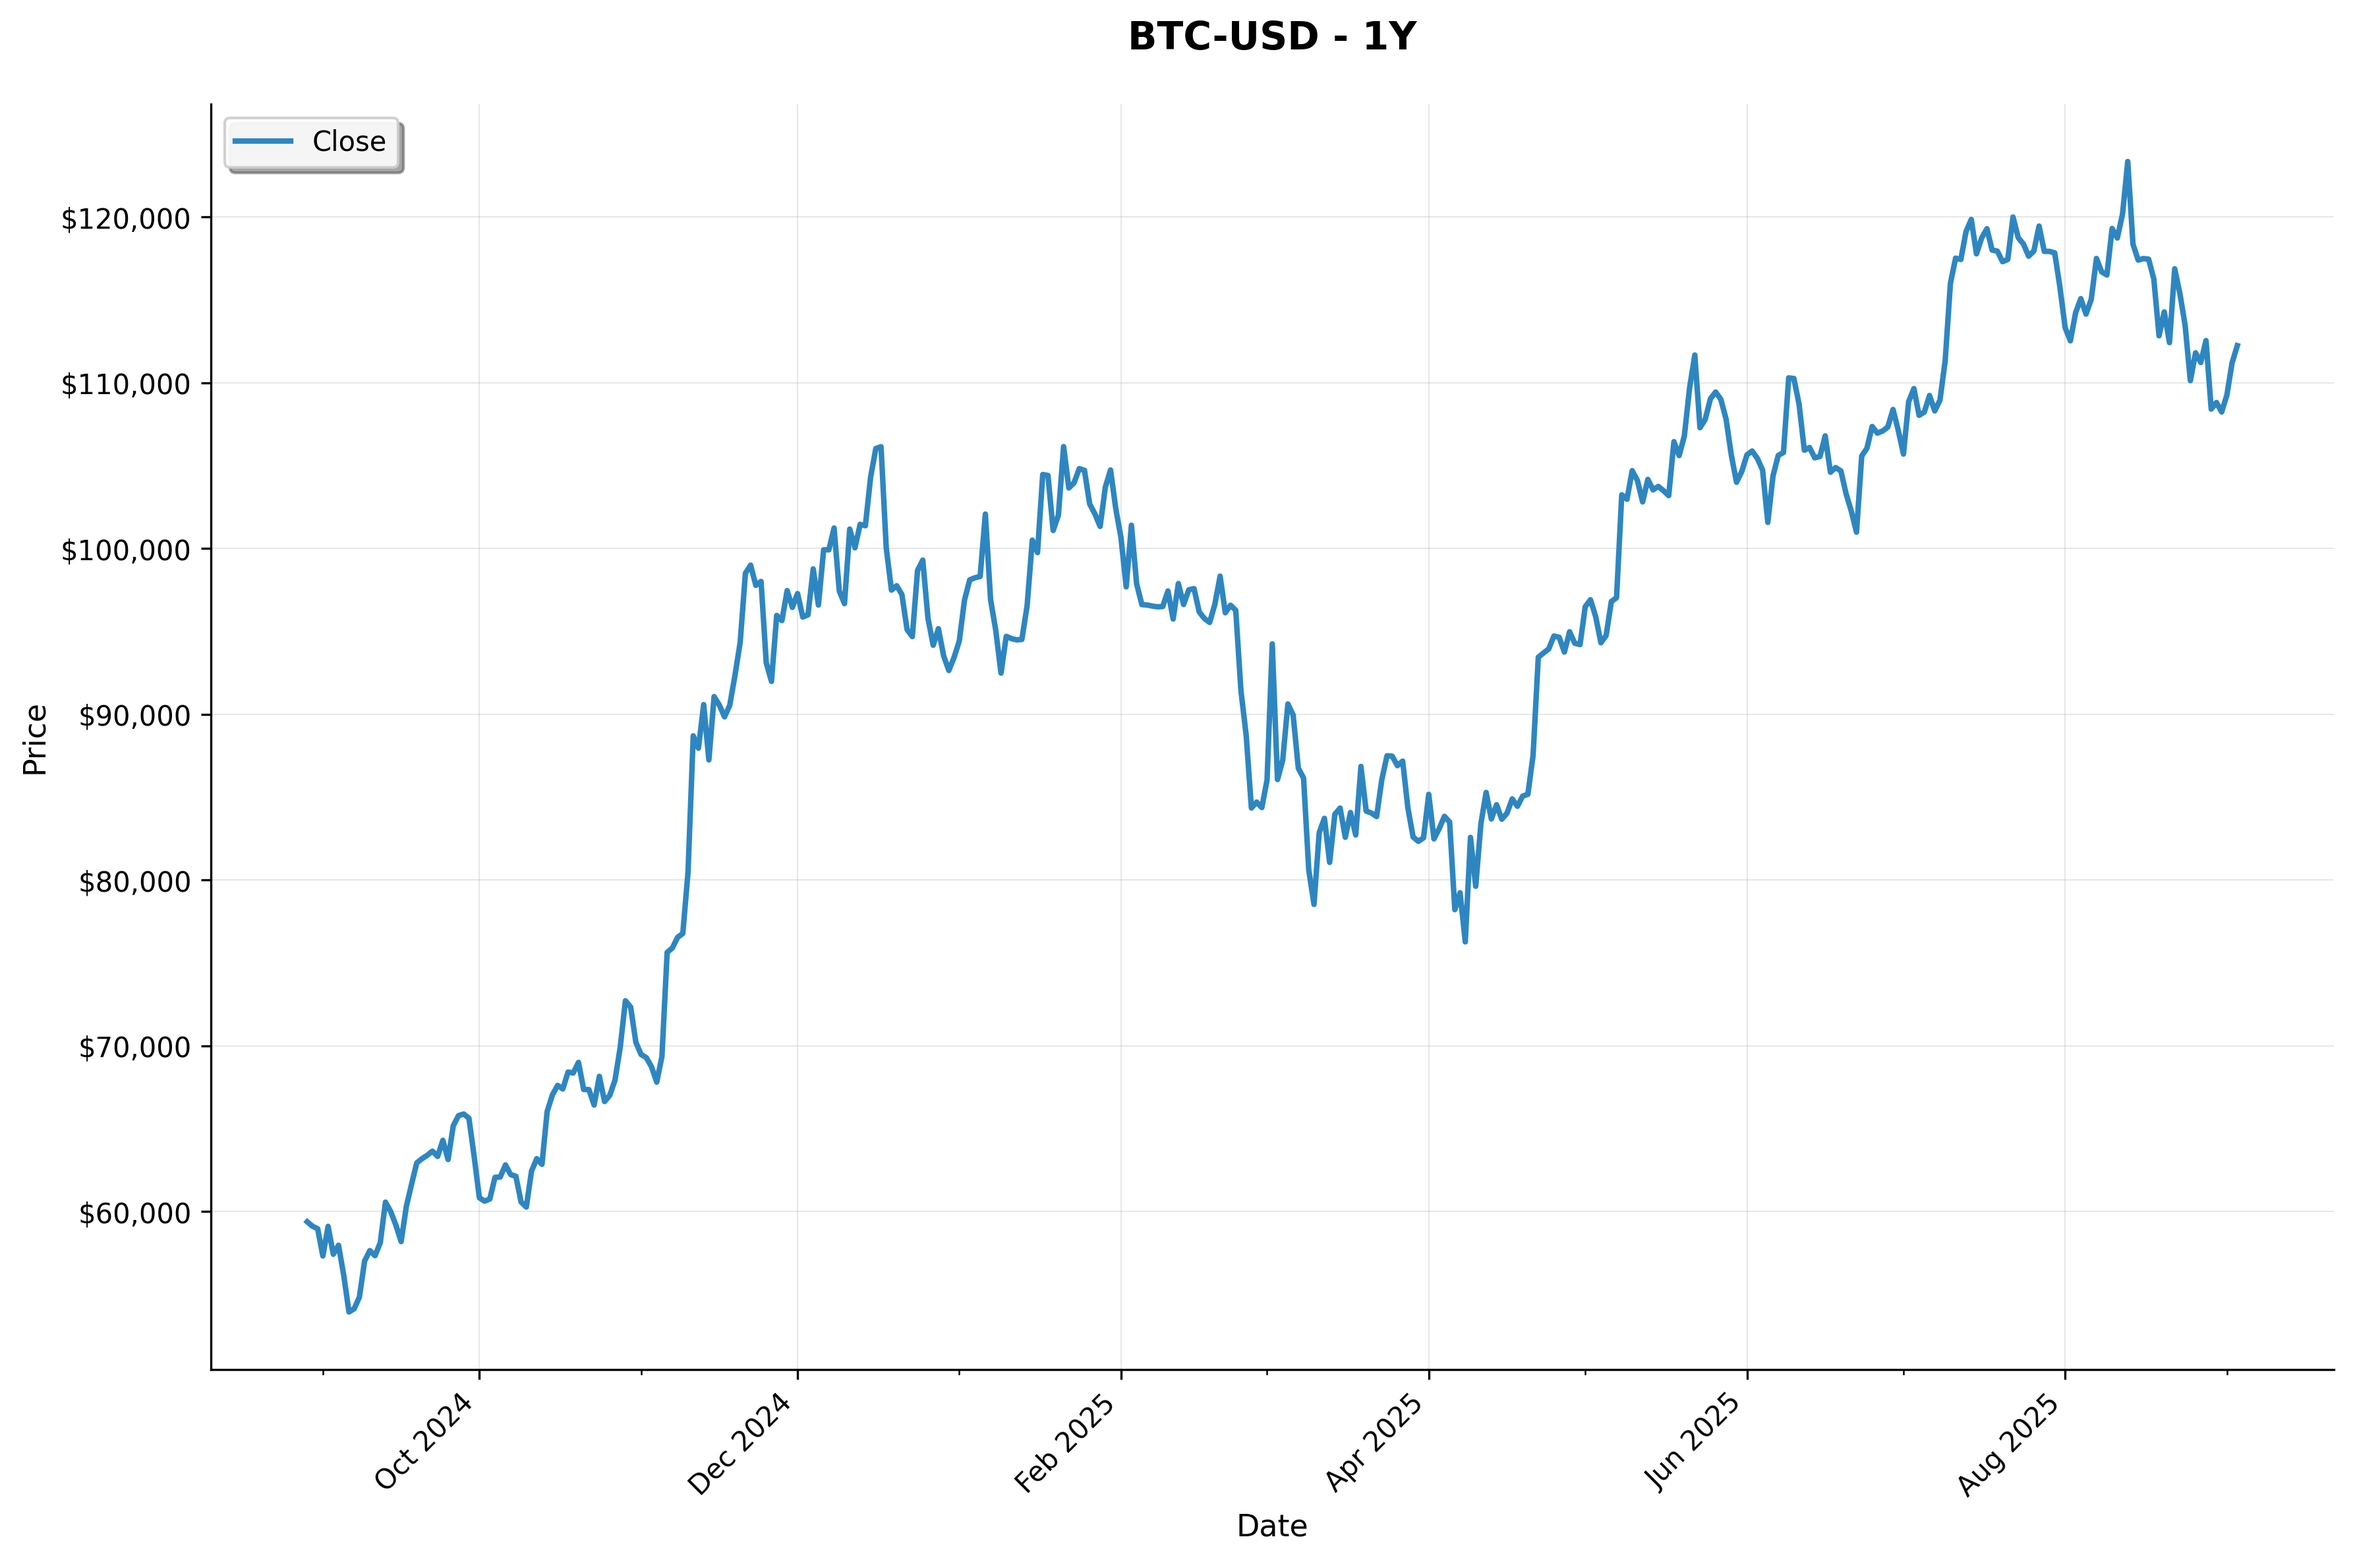
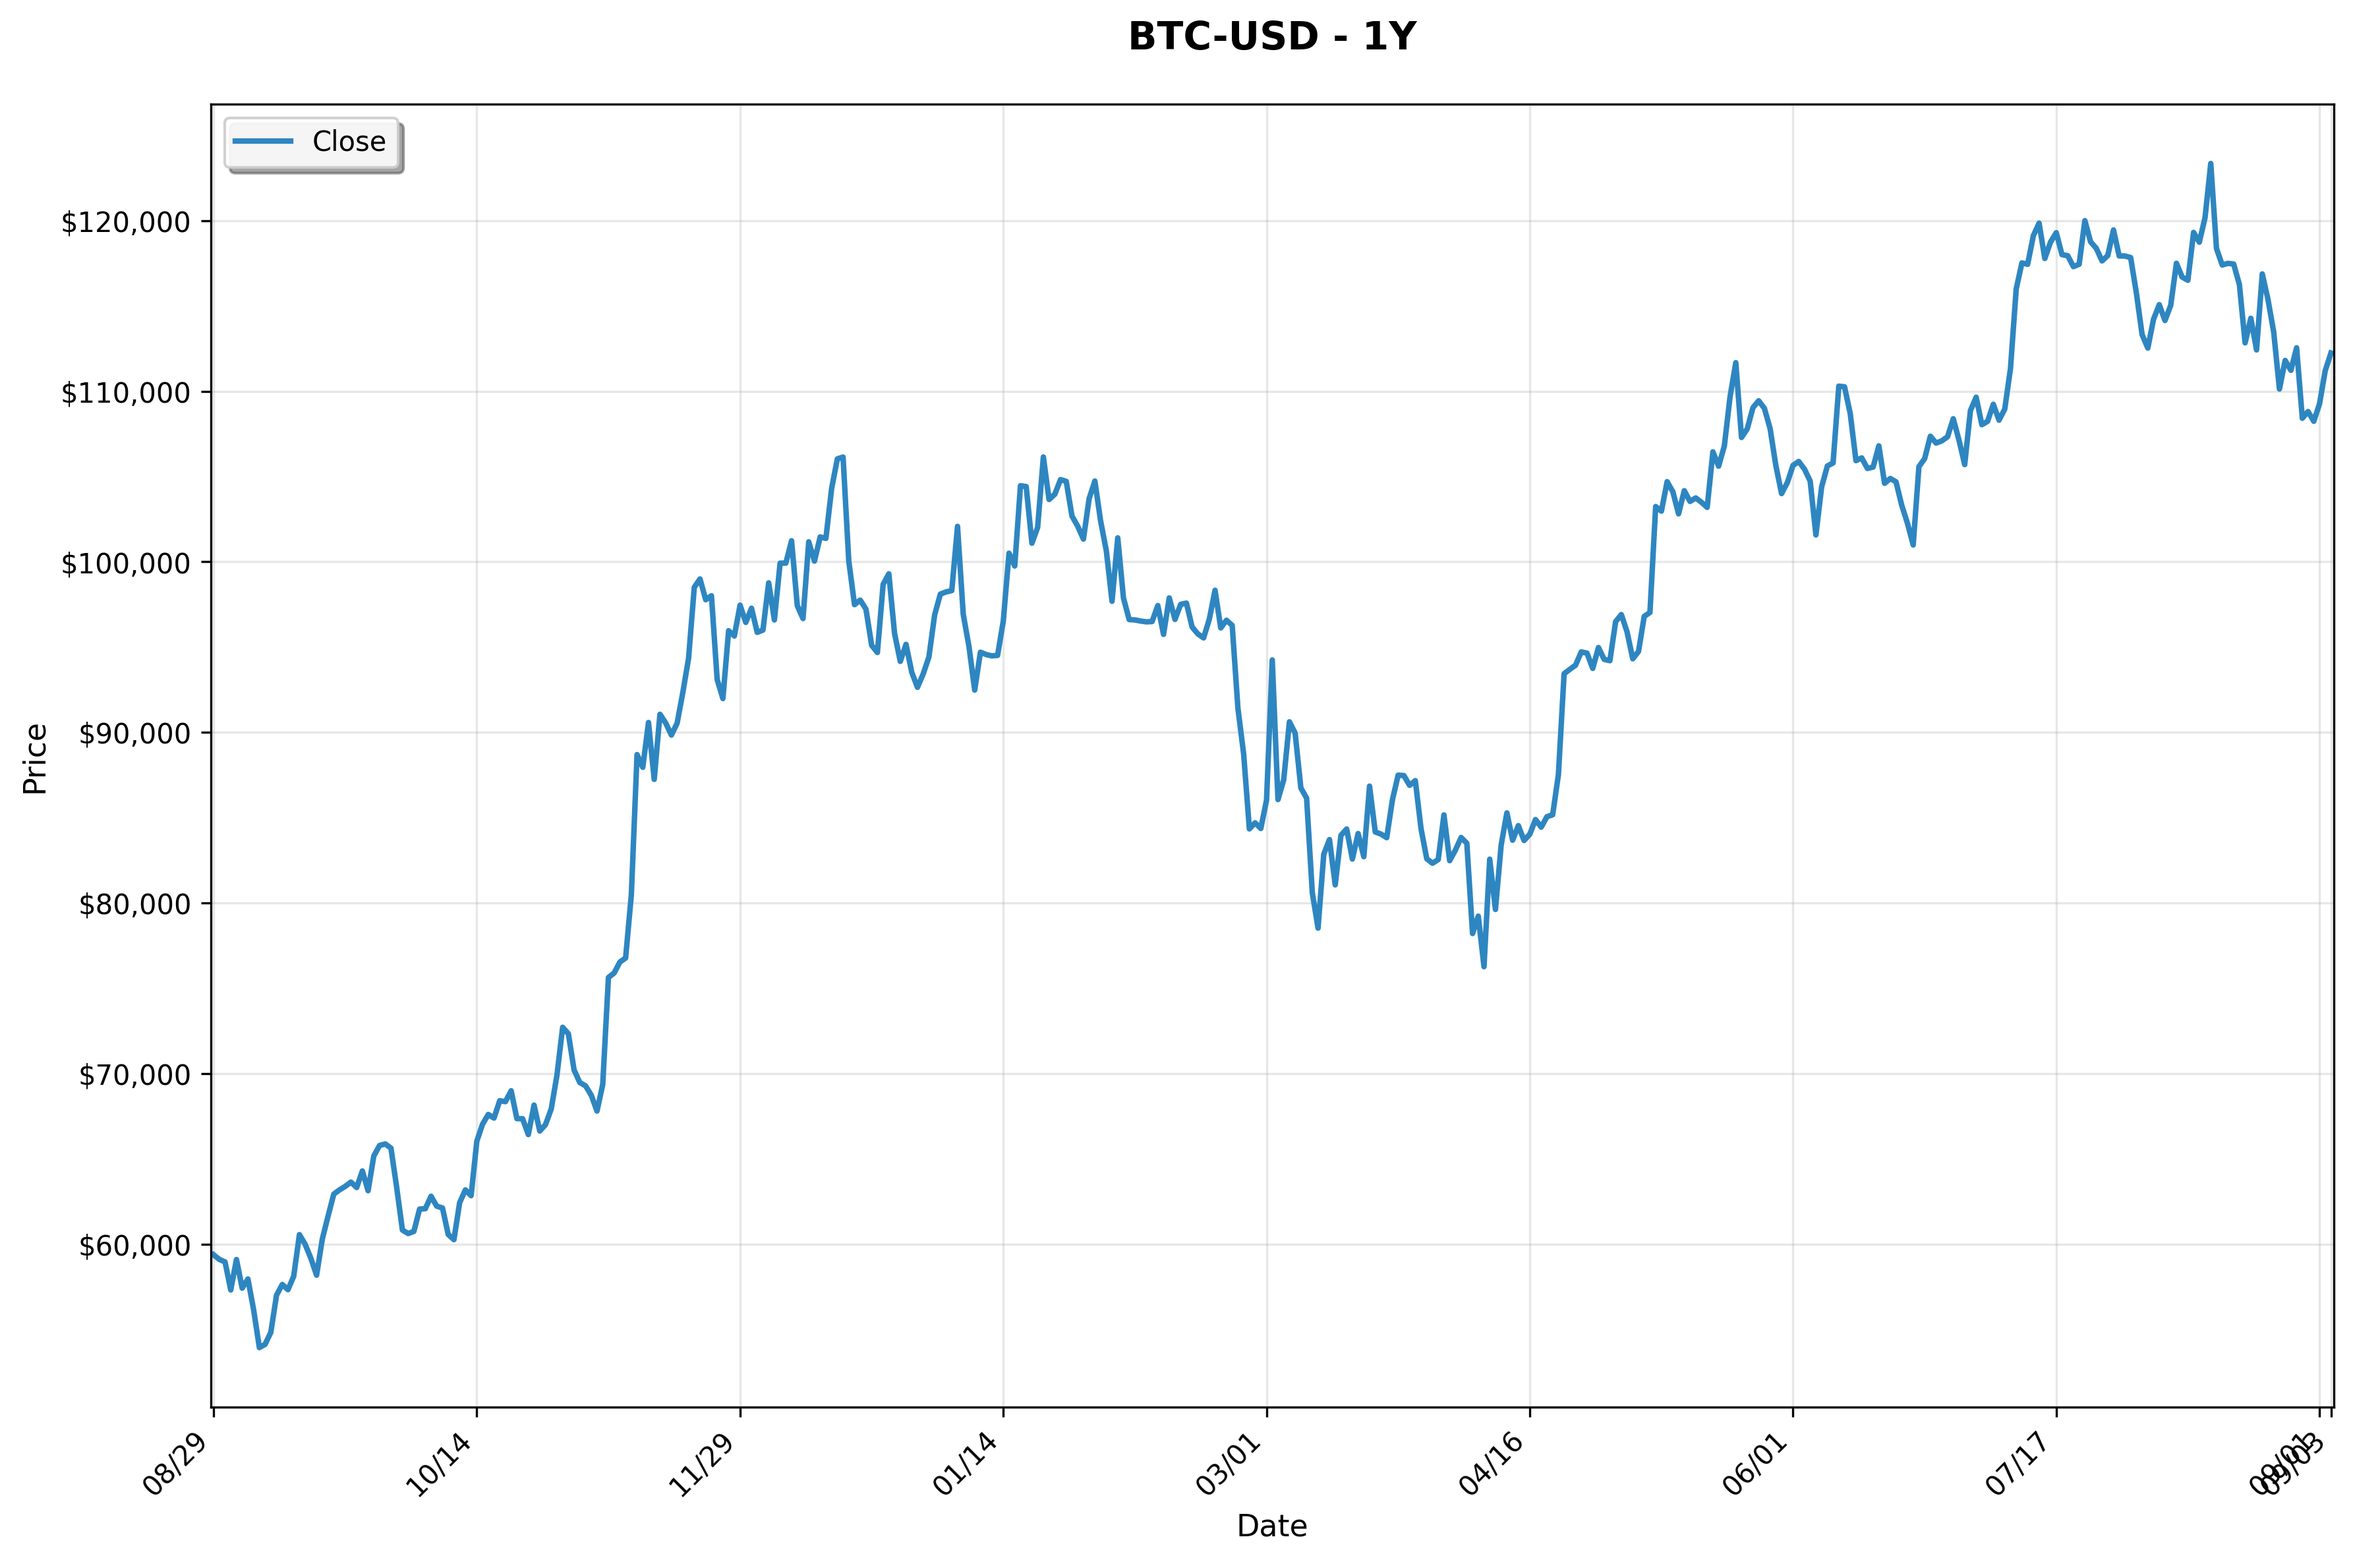
🐛 Fix critical chart date display issue
🔧 Fixed Charts Starting in January 1970:
- Root Cause: DateAxisFormatter was overriding sequential x-axis positioning
- Sequential positioning uses integer indices (0,1,2...) to eliminate weekend gaps
- DateAxisFormatter interpreted position 0 as Unix epoch (Jan 1, 1970)

💡 Solution:
- Modified _format_chart() to skip date formatting for main axis
- Preserve sequential positioning while applying only price formatting
- Volume axis still gets full formatting since it uses different positioning

✅ Results:
- All charts now display correct date ranges
- Fixed for all symbols (BTC-USD, AAPL, TSLA, etc.)
- Fixed for all timeframes (5D, 1M, 3M, 6M, YTD, 1Y, 5Y, MAX)
- Fixed for all chart styles (line, area, candlestick, ohlc)

🧪 Regenerated all example charts with proper dates

diff --git a/src/visualization/chart_engine.py b/src/visualization/chart_engine.py
@@ -444,12 +444,20 @@ class OHLCVChart:
     
     def _format_chart(self, timeframe: str, title: Optional[str]) -> None:
         """Apply formatting to the chart."""
-        # Format main price axis
-        apply_chart_formatting(self.axes[0], self.symbol, self.data, timeframe, 'price')
-        
-        # Format volume axis if present
+        # Note: Skip date formatting for main axis since we use sequential positioning
+        # Format main price axis (without date formatting to preserve sequential positioning)
         if len(self.axes) > 1:
+            # For volume axis, apply full formatting
             apply_chart_formatting(self.axes[1], self.symbol, self.data, timeframe, 'volume')
+        
+        # Apply only price formatting to main axis (skip date formatting)
+        from .formatters import PriceAxisFormatter
+        PriceAxisFormatter.format_price_axis(self.axes[0], self.symbol, self.data['close'])
+        self.axes[0].set_ylabel('Price', fontsize=11)
+        
+        # Add grid to main axis
+        self.axes[0].grid(True, alpha=0.3)
+        self.axes[0].tick_params(axis='both', labelsize=10)
         
         # Add title
         if title:
